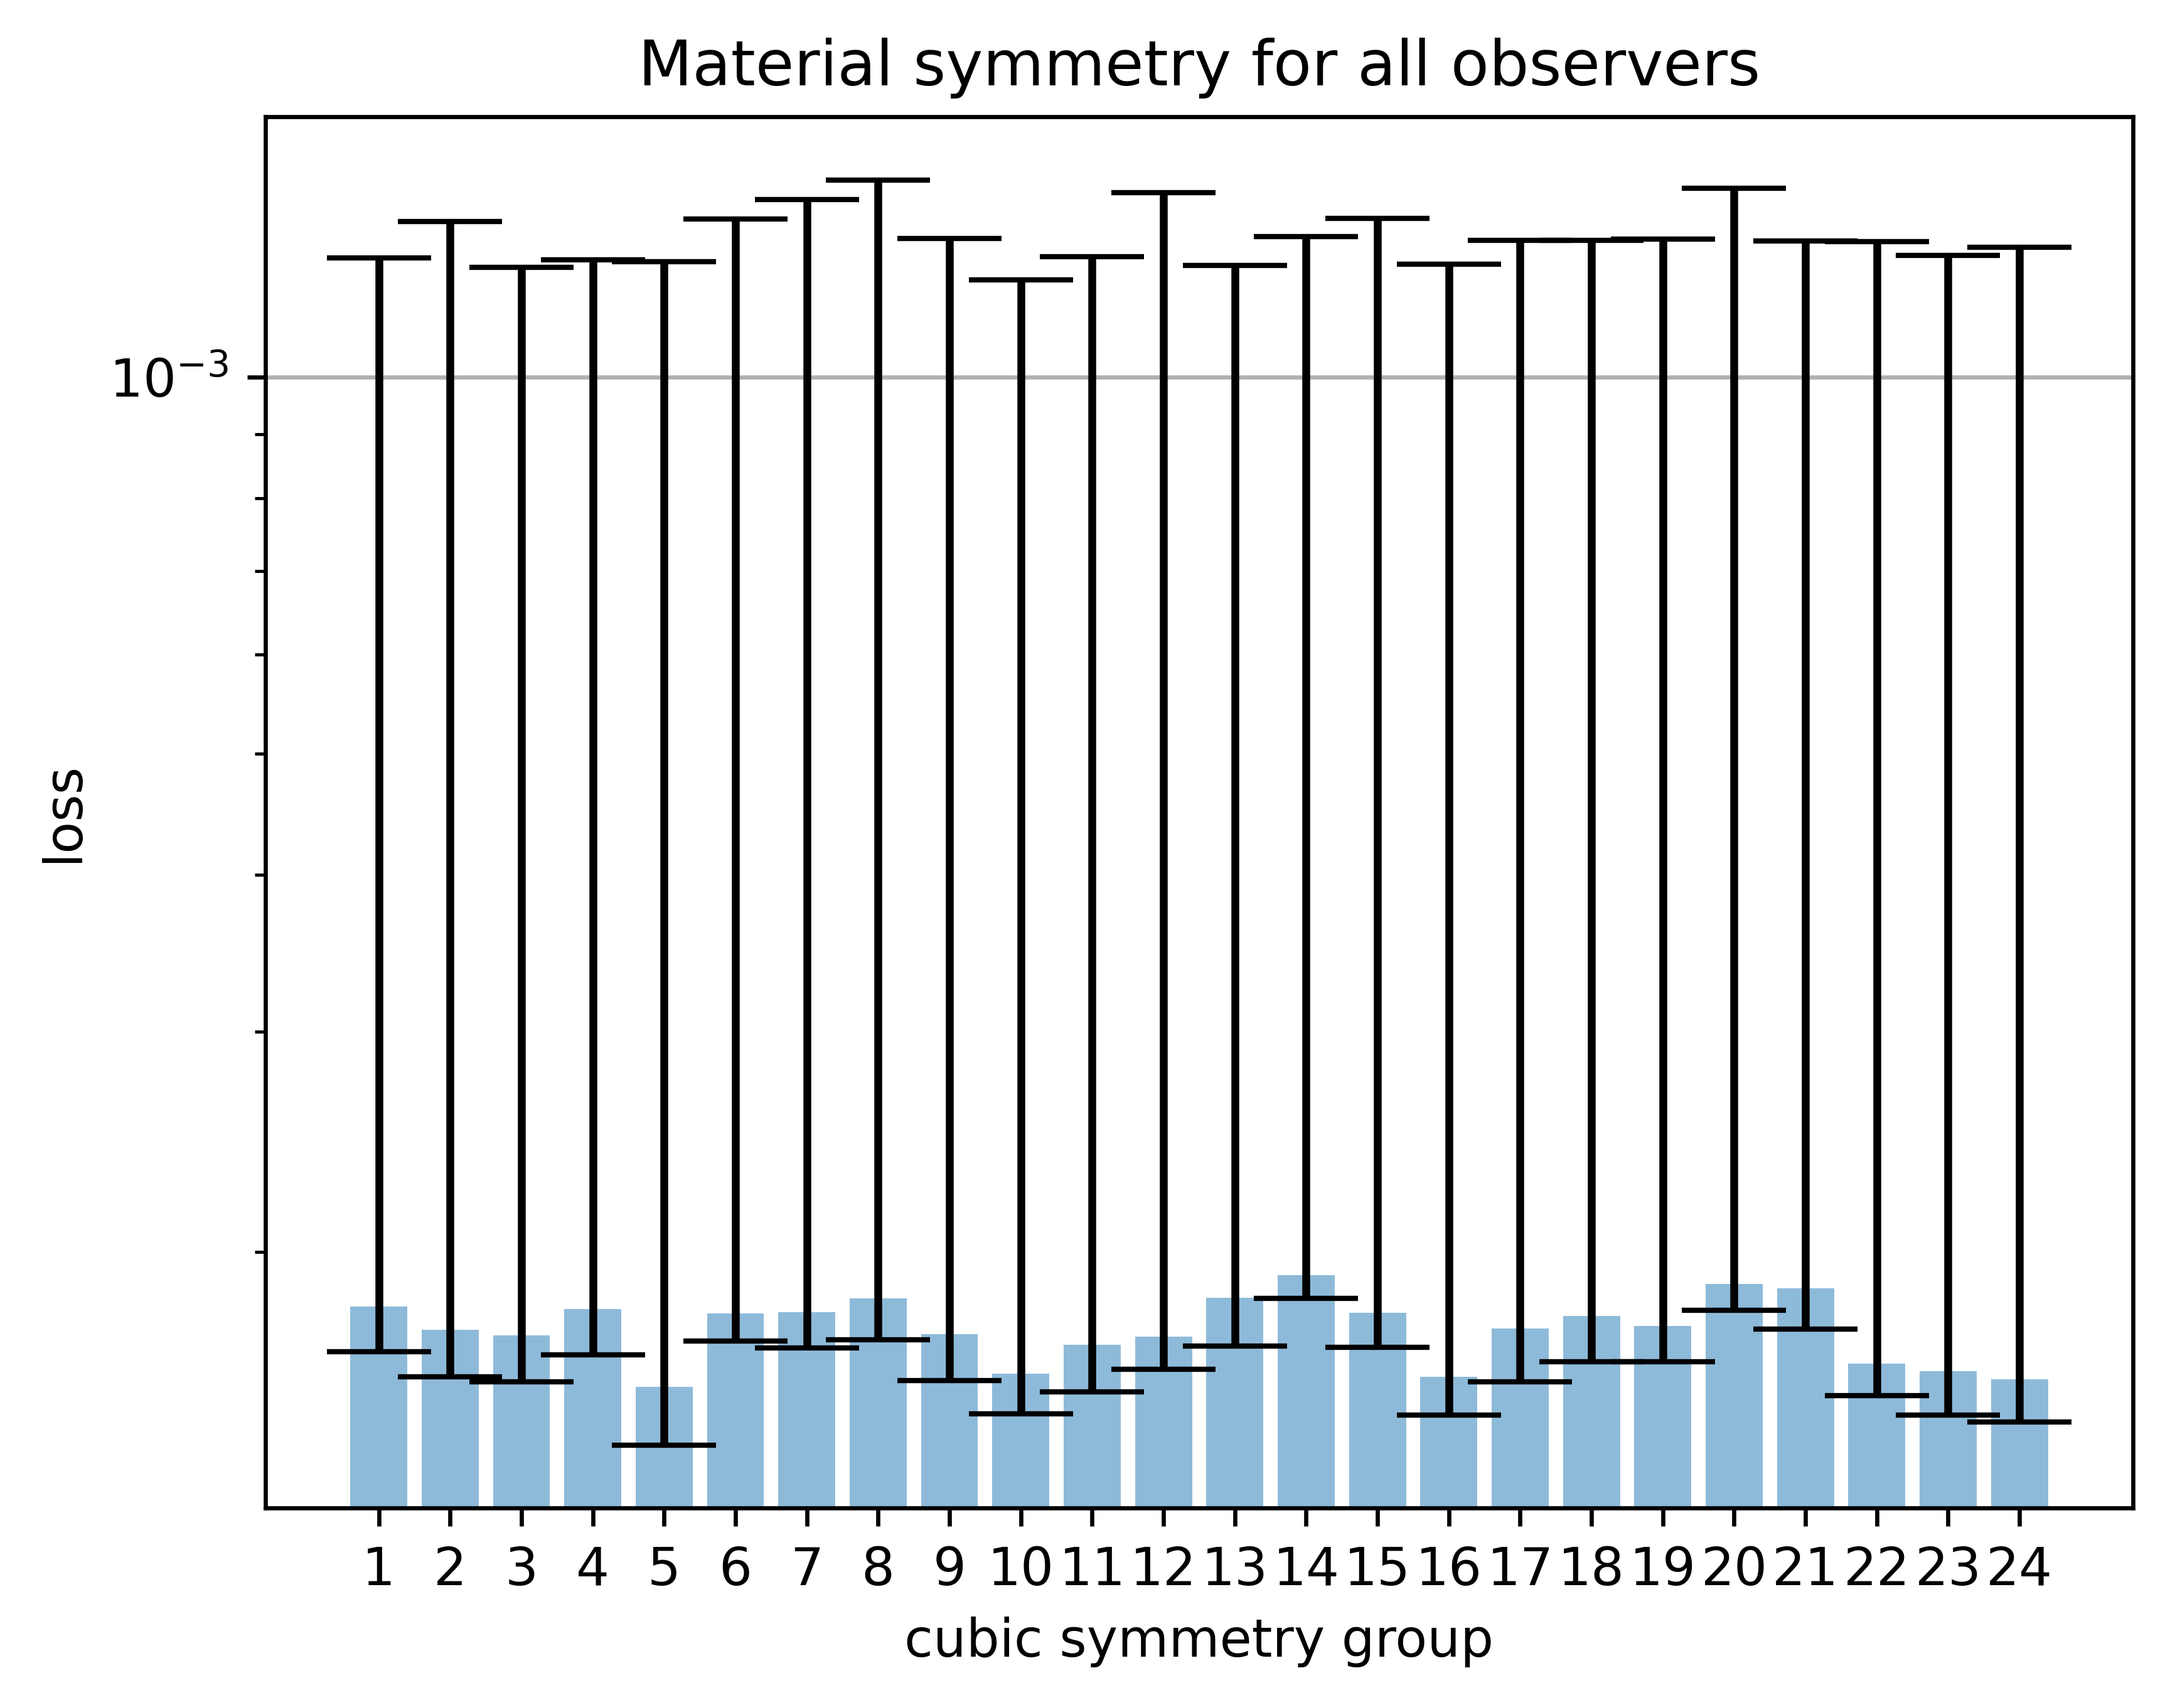
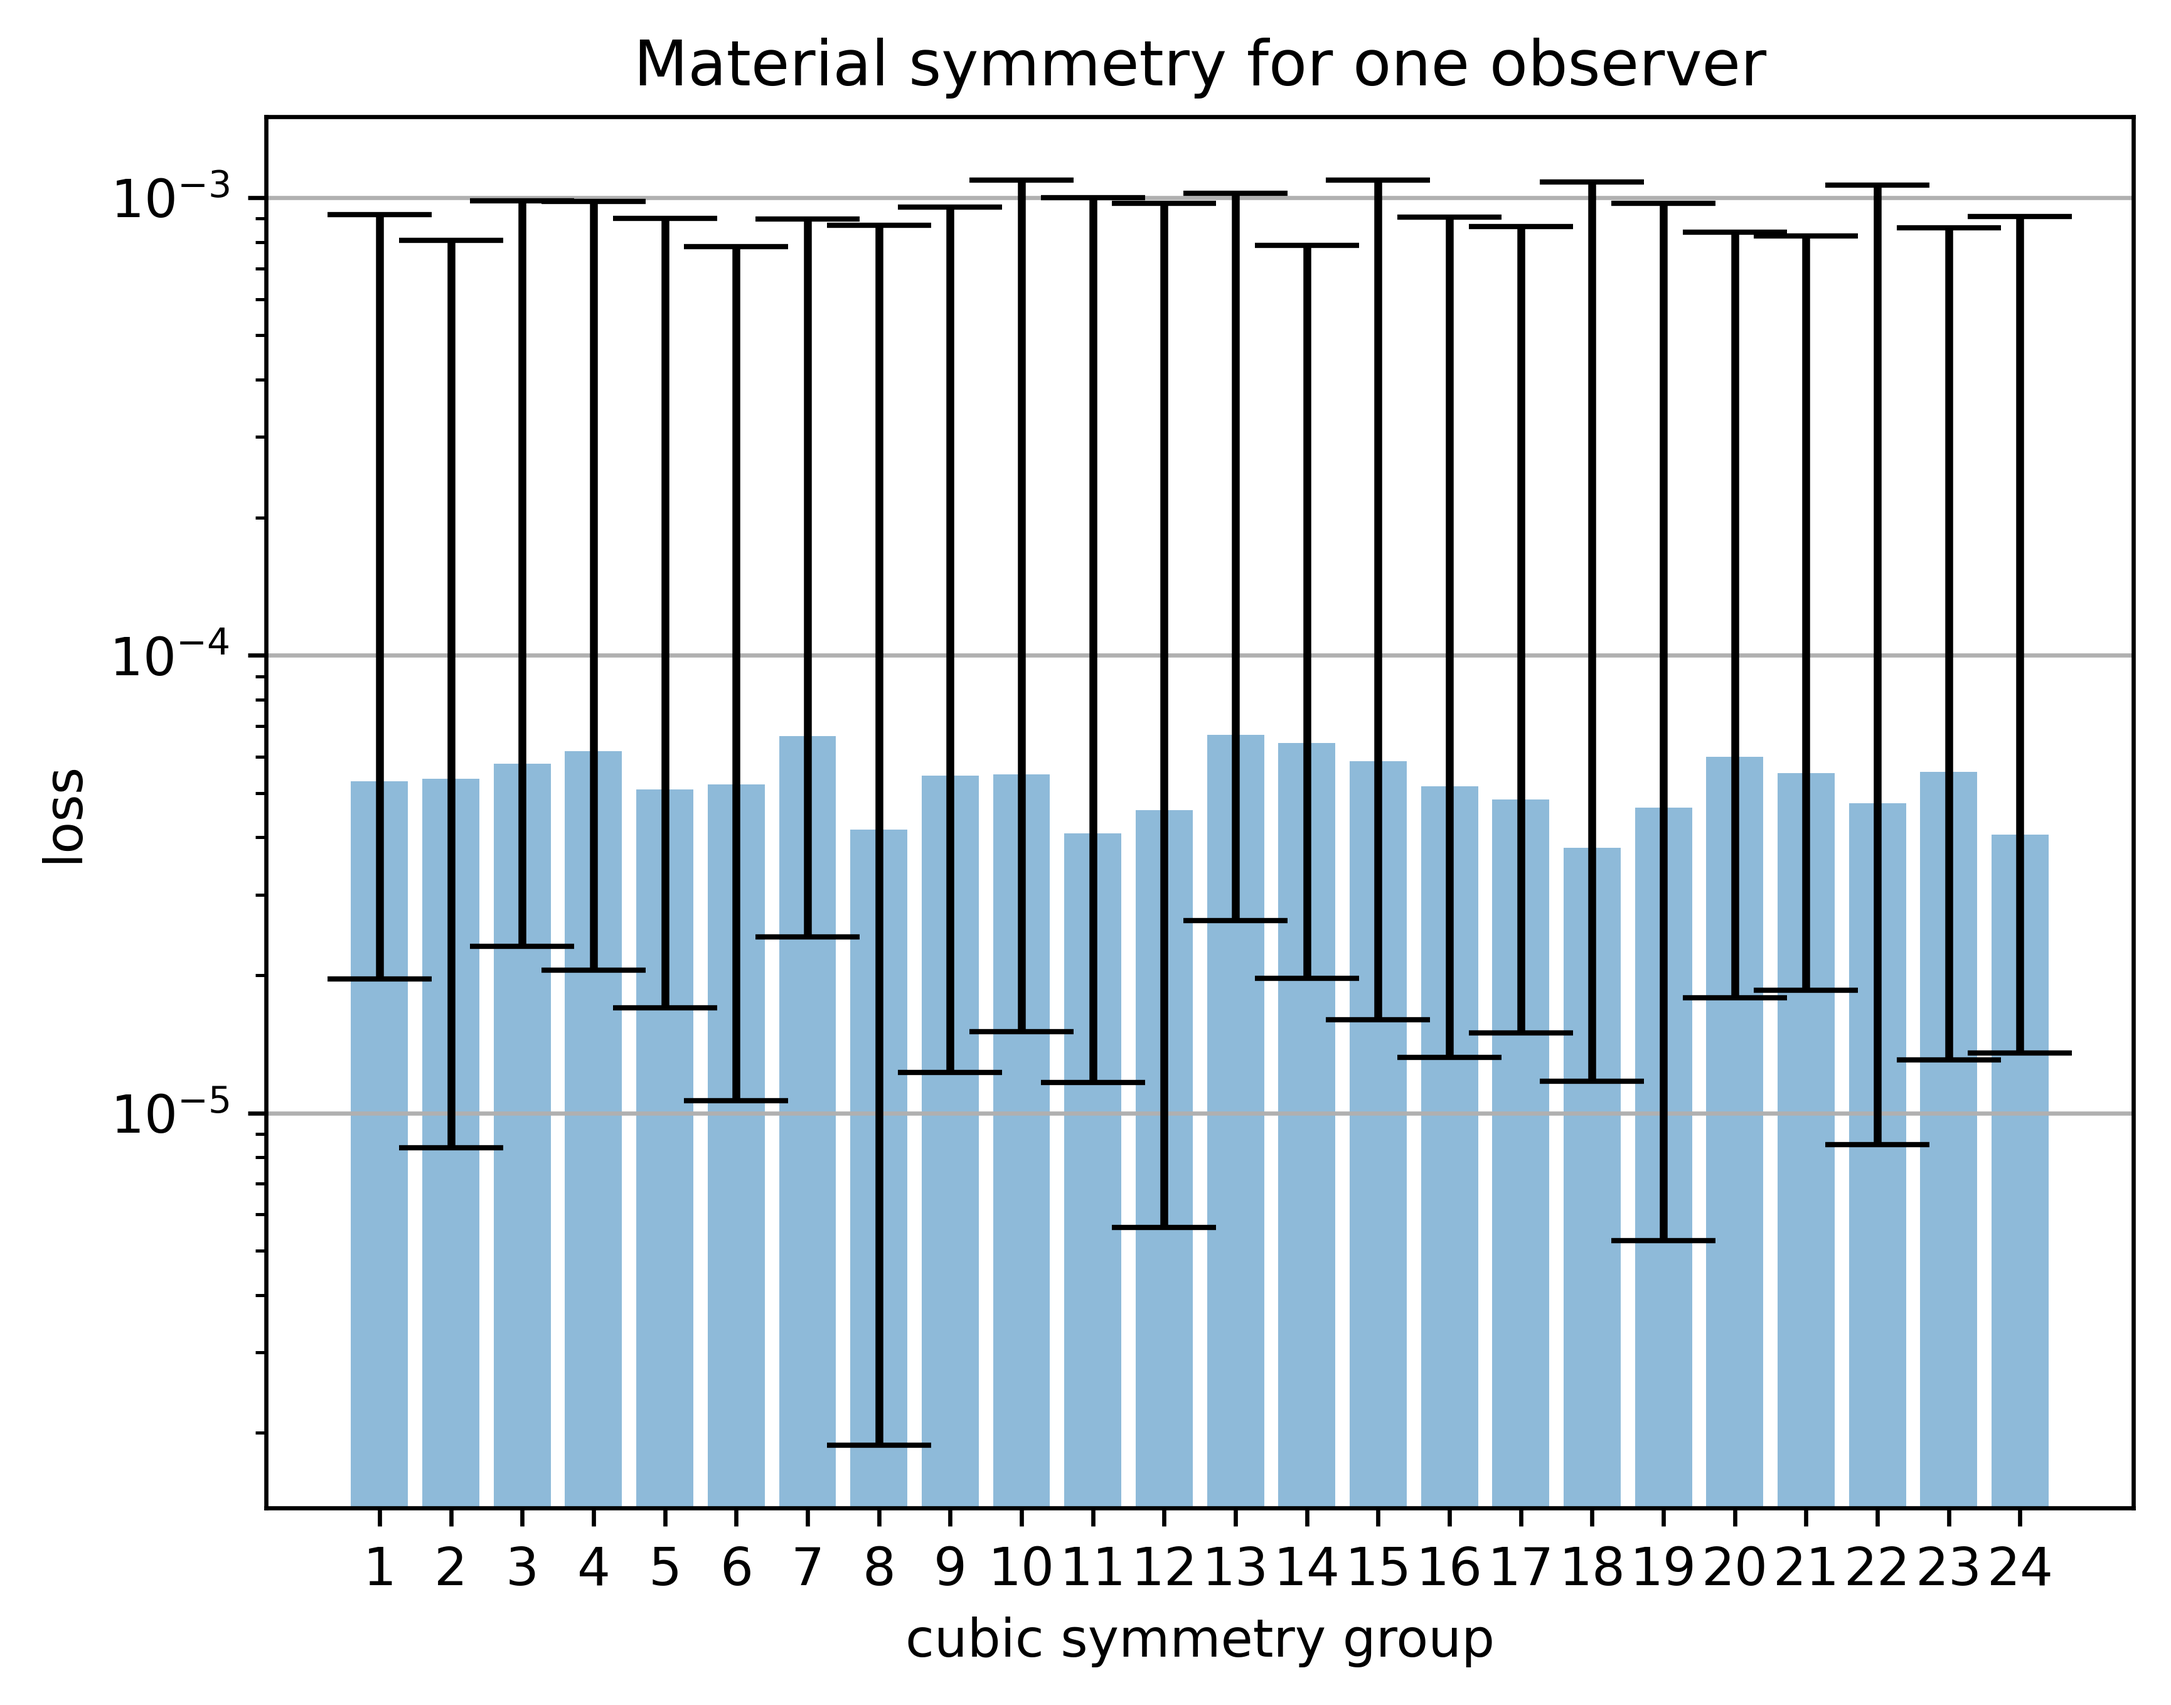
Renaming of material symmetry plots

diff --git a/02_hyperelasticity_I/main_defgrad_based.py b/02_hyperelasticity_I/main_defgrad_based.py
@@ -41,7 +41,7 @@ paths = [
 
 # %% Roations
 # Random rotations for objectivity training
-robjs = R.random(8)
+robjs = R.random(16)
 
 # Create material symmetry group
 rmats = R.identity()
@@ -104,19 +104,26 @@ robjs = R.random(300)
 results = tmodel.evaluate_objectivity(paths, robjs, qmat=R.identity().as_matrix())
 
 # %% Evaluate material symmetry
-results = tmodel.evaluate_matsymmetry(paths, rmats, qobj=R.identity().as_matrix())
-
-# %%
-import cProfile
-import pstats
-robjs_prof = R.random(1)
-profile = cProfile.Profile()
-profile.runcall(tmodel.evaluate_concurrent,paths, robjs_prof, rmats)
-ps = pstats.Stats(profile)
-ps.print_stats()
+print('Training')
+results = tmodel.evaluate_matsymmetry(paths[:3], rmats, qobj=R.identity().as_matrix())
+print('Testing')
+results = tmodel.evaluate_matsymmetry(paths[3:], rmats, qobj=R.identity().as_matrix())
 
 # %% Concurrent evaluation of objectivity and material symmetry
-results = tmodel.evaluate_concurrent(paths, robjs, rmats)
+robjs = R.random(20)
+print('Training')
+results = tmodel.evaluate_concurrent(paths[:3], robjs, rmats)
+print('Testing')
+results = tmodel.evaluate_concurrent(paths[3:], robjs, rmats)
+
+# %%
+# import cProfile
+# import pstats
+# robjs_prof = R.random(1)
+# profile = cProfile.Profile()
+# profile.runcall(tmodel.evaluate_concurrent,paths, robjs_prof, rmats)
+# ps = pstats.Stats(profile)
+# ps.print_stats()
 
 # %% Model parameters
 

diff --git a/02_hyperelasticity_I/modules/models.py b/02_hyperelasticity_I/modules/models.py
@@ -152,9 +152,9 @@ class InputConvex(layers.Layer):
     def __init__(self):
         super().__init__()
         # define hidden layers with activation functions
-        self.ls = [layers.Dense(8, 'softplus')]
-        self.ls += [layers.Dense(8, 'softplus', kernel_constraint=non_neg())]
-        self.ls += [layers.Dense(8, 'softplus', kernel_constraint=non_neg())]
+        self.ls = [layers.Dense(16, 'softplus')]
+        self.ls += [layers.Dense(16, 'softplus', kernel_constraint=non_neg())]
+        self.ls += [layers.Dense(16, 'softplus', kernel_constraint=non_neg())]
         # scalar-valued output function
         self.ls += [layers.Dense(1, kernel_constraint=non_neg())]
 

diff --git a/02_hyperelasticity_I/modules/training.py b/02_hyperelasticity_I/modules/training.py
@@ -214,7 +214,7 @@ class DefGradBased:
                         np.min(losses, axis=(0,2))[:,0],
                         np.max(losses, axis=(0,2))[:,0]])
 
-        if showplot: pl.matsym_loss(loss, title='Material symmetry for all observers', fname='')
+        if showplot: pl.matsym_loss(loss, title='Material symmetry for multiple observers', fname='concurrent')
         return losses
 
         
